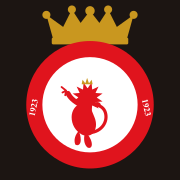
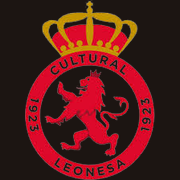
Usar el archivo real del escudo (PNG) en vez de la recreacion dibujada a mano
Encontrado en Descargas (culturall-removebg-preview.png, fondo ya
recortado) y copiado a public/escudo-cultural.png (recortado el margen
transparente sobrante). ClubCrest ahora es simplemente esa imagen real, no
un SVG dibujado a mano: se ve identica a la foto real del escudo en
cabecera, login, marca de fondo y en los iconos de la PWA (donde ahora si
sale el texto CULTURAL/LEONESA del aro, que con el dibujo anterior no
salia en los PNG generados).

diff --git a/src/components/branding/club-crest.tsx b/src/components/branding/club-crest.tsx
@@ -1,15 +1,9 @@
-const ROJO = "#e0141d";
-const ORO = "#c9971f";
-const BLANCO = "#ffffff";
+// Escudo real de la Cultural y Deportiva Leonesa (archivo que pasó el
+// usuario, con el fondo ya recortado), en vez de una recreación dibujada a
+// mano: se usa tal cual como logo (cabecera, login) y como marca de agua de
+// fondo.
+const RATIO_ALTO = 224 / 162; // proporción real del archivo public/escudo-cultural.png
 
-// Recreación simplificada (no pixel-perfect) del escudo de la Cultural y
-// Deportiva Leonesa, dibujada a partir de la imagen que pasó el usuario:
-// corona dorada, aro rojo con "CULTURAL" / "LEONESA" / "1923" y león
-// rampante rojo coronado (melena en forma de sol, cuerpo, cola y una garra
-// levantada) sobre fondo blanco. Se usa tanto de logo (cabecera, login)
-// como de marca de agua de fondo, así que prioriza que la silueta se
-// reconozca claramente como un león incluso a tamaño pequeño, por encima
-// del detalle fino del trazo.
 export function ClubCrest({
   size = 32,
   className,
@@ -18,115 +12,15 @@ export function ClubCrest({
   className?: string;
 }) {
   return (
-    <svg
+    // eslint-disable-next-line @next/next/no-img-element
+    <img
+      src="/escudo-cultural.png"
+      alt=""
       width={size}
-      height={size * (240 / 220)}
-      viewBox="0 0 220 240"
+      height={Math.round(size * RATIO_ALTO)}
       className={className}
+      style={{ width: size, height: size * RATIO_ALTO }}
       aria-hidden="true"
-    >
-      {/* Corona */}
-      <g fill={ORO}>
-        <path d="M55 44 L45 8 L70 26 L83 0 L96 20 L110 2 L124 20 L137 0 L150 26 L175 8 L165 44 Z" />
-        <circle cx="45" cy="8" r="6" />
-        <circle cx="83" cy="0" r="6" />
-        <circle cx="110" cy="2" r="7" />
-        <circle cx="137" cy="0" r="6" />
-        <circle cx="175" cy="8" r="6" />
-        <rect x="53" y="42" width="114" height="10" rx="2" />
-      </g>
-
-      {/* Aro exterior */}
-      <circle cx="110" cy="142" r="95" fill={ROJO} />
-      <circle cx="110" cy="142" r="71" fill={BLANCO} />
-
-      {/* Rótulos en el aro */}
-      <defs>
-        <path id="arcoSuperior" d="M27,142 A83,83 0 0 1 193,142" />
-        <path id="arcoInferior" d="M27,142 A83,83 0 0 0 193,142" />
-      </defs>
-      <text fill={BLANCO} fontSize="17" fontWeight="700" letterSpacing="2">
-        <textPath href="#arcoSuperior" startOffset="50%" textAnchor="middle">
-          CULTURAL
-        </textPath>
-      </text>
-      <text fill={BLANCO} fontSize="17" fontWeight="700" letterSpacing="2">
-        <textPath href="#arcoInferior" startOffset="50%" textAnchor="middle">
-          LEONESA
-        </textPath>
-      </text>
-      <text
-        fill={BLANCO}
-        fontSize="13"
-        fontWeight="700"
-        x="30"
-        y="147"
-        textAnchor="middle"
-        transform="rotate(-78 30 147)"
-      >
-        1923
-      </text>
-      <text
-        fill={BLANCO}
-        fontSize="13"
-        fontWeight="700"
-        x="190"
-        y="147"
-        textAnchor="middle"
-        transform="rotate(78 190 147)"
-      >
-        1923
-      </text>
-
-      {/* León rampante coronado, centrado en el aro blanco */}
-      <g transform="translate(35 87) scale(0.68)">
-        <g fill={ROJO}>
-          {/* melena: sol de 12 puntas alrededor de la cabeza */}
-          <path d="M 125.0 65.0 L 137.8 73.8 L 122.3 75.0 L 129.0 89.0 L 115.0 82.3 L 113.8 97.8 L 105.0 85.0 L 96.2 97.8 L 95.0 82.3 L 81.0 89.0 L 87.7 75.0 L 72.2 73.8 L 85.0 65.0 L 72.2 56.2 L 87.7 55.0 L 81.0 41.0 L 95.0 47.7 L 96.2 32.2 L 105.0 45.0 L 113.8 32.2 L 115.0 47.7 L 129.0 41.0 L 122.3 55.0 L 137.8 56.2 Z" />
-          {/* cara, dentro de la melena */}
-          <circle cx="105" cy="65" r="20" />
-          {/* cuerpo, inclinado, saliendo por debajo de la melena */}
-          <path
-            d="M 90 78
-               C 78 82 70 94 70 108
-               C 70 124 78 138 92 146
-               C 100 150 110 150 116 144
-               C 124 136 126 122 120 108
-               C 116 98 112 88 108 80 Z"
-          />
-          {/* patas traseras */}
-          <path d="M100 140 C 96 152 96 166 104 174 C 110 178 116 174 114 164 C 112 154 106 146 100 140 Z" />
-          <path d="M86 138 C 78 146 74 158 78 168 C 84 172 90 168 90 158 C 90 150 88 144 86 138 Z" />
-          {/* pata delantera levantada, con garra */}
-          <path
-            d="M92 82 C80 76 68 68 62 56"
-            stroke={ROJO}
-            strokeWidth="11"
-            fill="none"
-            strokeLinecap="round"
-          />
-          <path
-            d="M58 50 L48 42 M58 50 L50 54 M58 50 L56 60"
-            stroke={ROJO}
-            strokeWidth="4"
-            fill="none"
-            strokeLinecap="round"
-          />
-          {/* cola, sale del cuerpo y se curva por encima del lomo */}
-          <path
-            d="M110 142 C136 140 150 118 144 98 C141 88 132 82 124 82"
-            stroke={ROJO}
-            strokeWidth="7"
-            fill="none"
-            strokeLinecap="round"
-          />
-          <ellipse cx="127" cy="80" rx="7" ry="5" transform="rotate(15 127 80)" />
-        </g>
-        {/* corona pequeña sobre la melena */}
-        <g fill={ORO}>
-          <path d="M92 36 L94 26 L100 34 L104 22 L108 34 L114 26 L116 36 Z" />
-        </g>
-      </g>
-    </svg>
+    />
   );
 }
